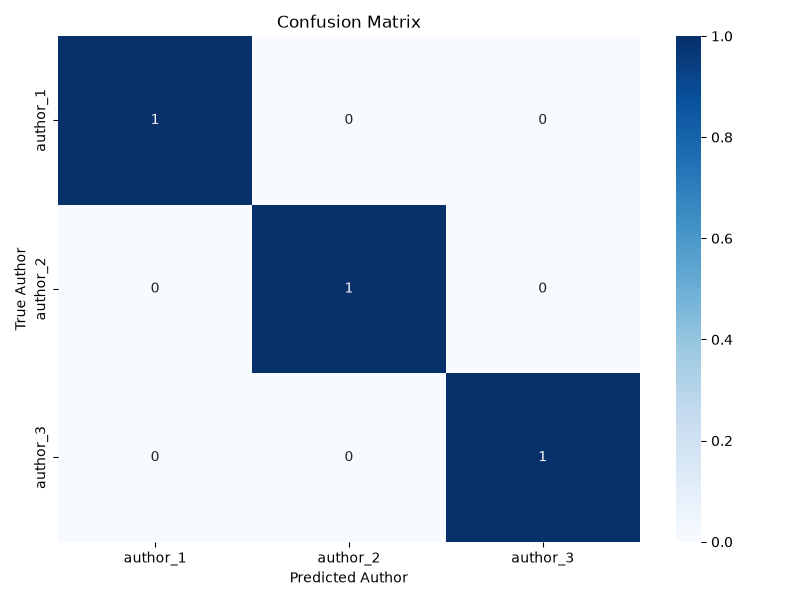
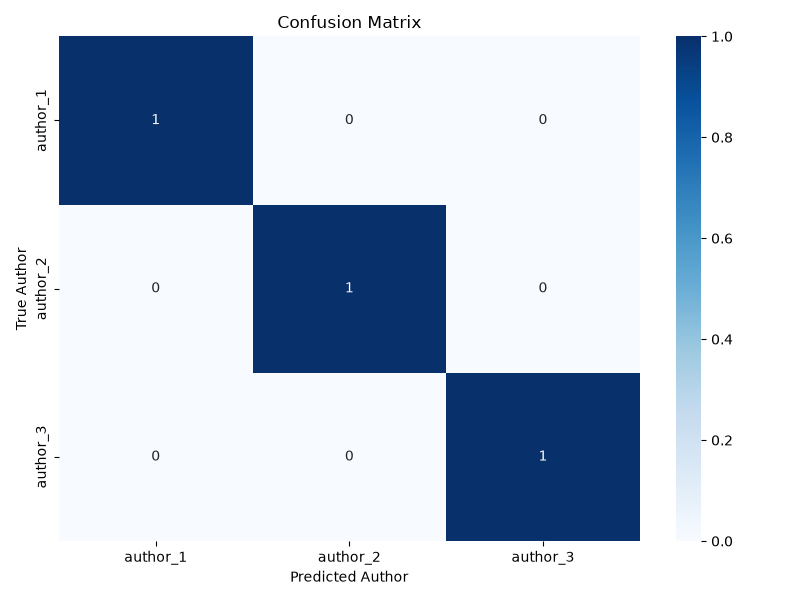
Support multiple Kaggle datasets (AI4Code, GCJ, GPT) with robust extraction

diff --git a/scripts/download_datasets.py b/scripts/download_datasets.py
@@ -1,0 +1,89 @@
+import os
+import zipfile
+import shutil
+
+try:
+    from kaggle.api.kaggle_api_extended import KaggleApi
+except OSError:
+    print("WARNING: Kaggle API credentials not found!")
+    print("Please place your kaggle.json file in ~/.kaggle/kaggle.json")
+    print("You can create a new API token from your Kaggle Account Settings.")
+    exit(1)
+
+def download_and_extract(dataset_slug, download_path):
+    print(f"Downloading {dataset_slug}...")
+    api = KaggleApi()
+    api.authenticate()
+    
+    # Download dataset
+    api.dataset_download_files(dataset_slug, path=download_path, unzip=False)
+    
+    # Find the downloaded zip
+    zip_name = dataset_slug.split('/')[-1] + '.zip'
+    zip_path = os.path.join(download_path, zip_name)
+    
+    if os.path.exists(zip_path):
+        print(f"Extracting {zip_path}...")
+        with zipfile.ZipFile(zip_path, 'r') as zip_ref:
+            zip_ref.extractall(download_path)
+        os.remove(zip_path)
+        print(f"Extraction complete for {dataset_slug}.")
+    else:
+        print(f"Warning: Could not find zip file for {dataset_slug}")
+
+def organize_ai4code(base_path):
+    """Samples AI4Code (Jupyter Notebooks) and organizes them by a pseudo-author."""
+    # AI4Code doesn't have authors, just a lot of notebooks.
+    # We will sample 100 notebooks and assign them to 2 pseudo-authors for stylistic testing.
+    print("Organizing a small sample of AI4Code...")
+    import glob
+    import random
+    
+    source_dir = os.path.join(base_path, "train")
+    if not os.path.exists(source_dir):
+        return
+        
+    notebooks = glob.glob(os.path.join(source_dir, "*.json"))
+    random.seed(42)
+    random.shuffle(notebooks)
+    
+    # Take 50 notebooks for Author_A, 50 for Author_B
+    sample = notebooks[:100]
+    
+    for i, nb in enumerate(sample):
+        author_dir = os.path.join(base_path, "Author_Notebooks_A" if i < 50 else "Author_Notebooks_B")
+        os.makedirs(author_dir, exist_ok=True)
+        shutil.copy(nb, os.path.join(author_dir, os.path.basename(nb)))
+        
+    print("AI4Code sample organized.")
+
+if __name__ == "__main__":
+    DATASET_DIR = "dataset/kaggle_data"
+    os.makedirs(DATASET_DIR, exist_ok=True)
+    
+    # 1. GPT Java GCJ Source Code (GPT vs Human)
+    # dataset_slug: m710323363/gpt-java-gcj-source-code
+    try:
+        download_and_extract('m710323363/gpt-java-gcj-source-code', os.path.join(DATASET_DIR, "gpt_java_gcj"))
+    except Exception as e:
+        print(f"Failed to download GPT Java GCJ: {e}")
+
+    # 2. Google AI4Code (Python Notebooks)
+    # dataset_slug: google/google-ai4code
+    try:
+        # Warning: This is 1.5GB!
+        ai4code_dir = os.path.join(DATASET_DIR, "ai4code")
+        download_and_extract('google/google-ai4code', ai4code_dir)
+        organize_ai4code(ai4code_dir)
+    except Exception as e:
+        print(f"Failed to download AI4Code: {e}")
+
+    # 3. Standard Google Code Jam Dataset
+    # Since there are many, we use a popular pre-processed one for authorship
+    try:
+        download_and_extract('crawford/google-code-jam-dataset', os.path.join(DATASET_DIR, "gcj_standard"))
+    except Exception as e:
+        print(f"Failed to download standard GCJ: {e}")
+
+    print(f"\nAll downloads finished! Data saved to {DATASET_DIR}")
+    print("Note: The Streamlit app can now point to this folder.")

diff --git a/src/data_loader.py b/src/data_loader.py
@@ -1,5 +1,6 @@
 import os
 import glob
+import json
 import pandas as pd
 
 def load_dataset(dataset_path):
@@ -7,13 +8,9 @@ def load_dataset(dataset_path):
     Load source code files from a directory structure where each subdirectory
     corresponds to an author (class label).
     
-    Example structure:
-    dataset/
-        author1/
-            file1.py
-            file2.py
-        author2/
-            file3.py
+    Supports:
+    - Raw source code files (.py, .java, .cpp, etc.)
+    - Jupyter Notebooks (.ipynb, .json format like AI4Code)
     
     Returns a pandas DataFrame with 'code' and 'author' columns.
     """
@@ -30,8 +27,40 @@ def load_dataset(dataset_path):
             for filepath in glob.glob(os.path.join(author_path, '*.*')):
                 try:
                     with open(filepath, 'r', encoding='utf-8') as f:
-                        code_content = f.read()
-                        data.append({'code': code_content, 'author': author_dir})
+                        # Handle Jupyter Notebooks / AI4Code JSON format
+                        if filepath.endswith('.ipynb') or filepath.endswith('.json'):
+                            try:
+                                notebook = json.load(f)
+                                code_cells = []
+                                
+                                # Standard .ipynb format
+                                if 'cells' in notebook:
+                                    for cell in notebook['cells']:
+                                        if cell.get('cell_type') == 'code':
+                                            source = cell.get('source', [])
+                                            if isinstance(source, list):
+                                                code_cells.append("".join(source))
+                                            else:
+                                                code_cells.append(source)
+                                                
+                                # AI4Code custom JSON format
+                                elif 'cell_type' in notebook and 'source' in notebook:
+                                    for cell_id, ctype in notebook['cell_type'].items():
+                                        if ctype == 'code':
+                                            code_cells.append(notebook['source'].get(cell_id, ""))
+                                            
+                                code_content = "\n".join(code_cells)
+                            except json.JSONDecodeError:
+                                # Fallback if JSON is malformed
+                                f.seek(0)
+                                code_content = f.read()
+                        else:
+                            # Standard raw code file
+                            code_content = f.read()
+                            
+                        # Only add if there is actual code
+                        if code_content.strip():
+                            data.append({'code': code_content, 'author': author_dir})
                 except Exception as e:
                     print(f"Error reading file {filepath}: {e}")
                     

diff --git a/src/feature_extraction.py b/src/feature_extraction.py
@@ -61,7 +61,7 @@ def extract_features(df):
             features['ast_num_returns'] = extractor.node_counts.get('Return', 0)
             features['ast_num_imports'] = extractor.node_counts.get('Import', 0) + extractor.node_counts.get('ImportFrom', 0)
             
-        except SyntaxError:
+        except Exception:
             # Fallback if code is not valid Python
             features['ast_max_depth'] = 0
             features['ast_num_functions'] = 0
